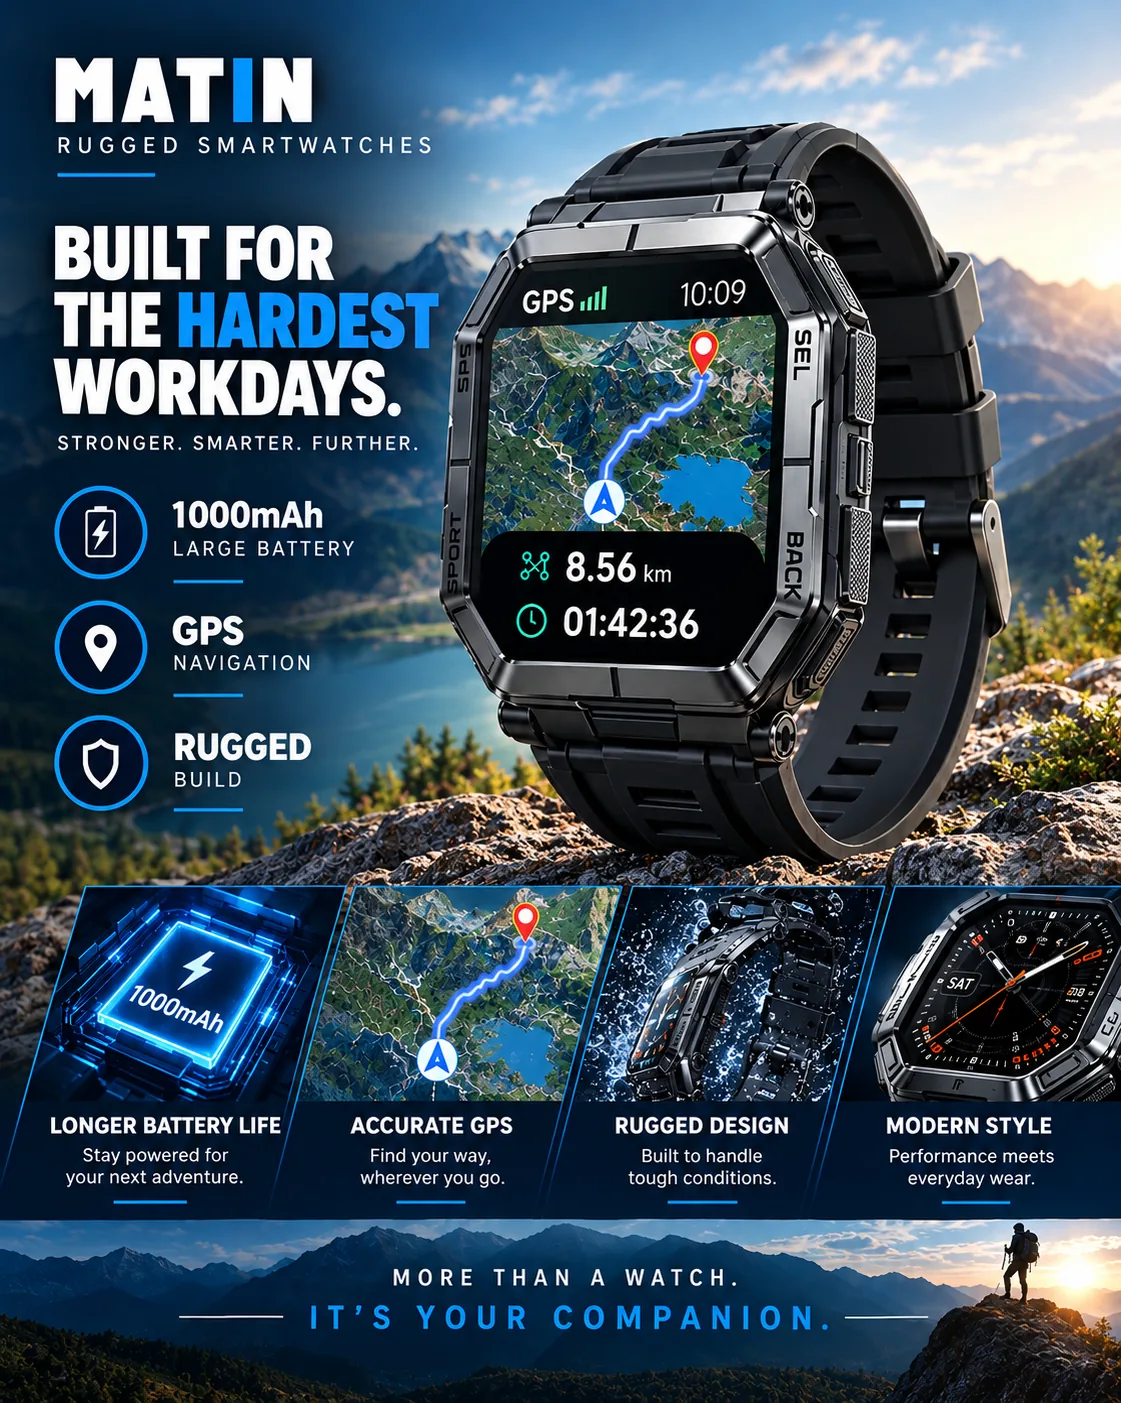
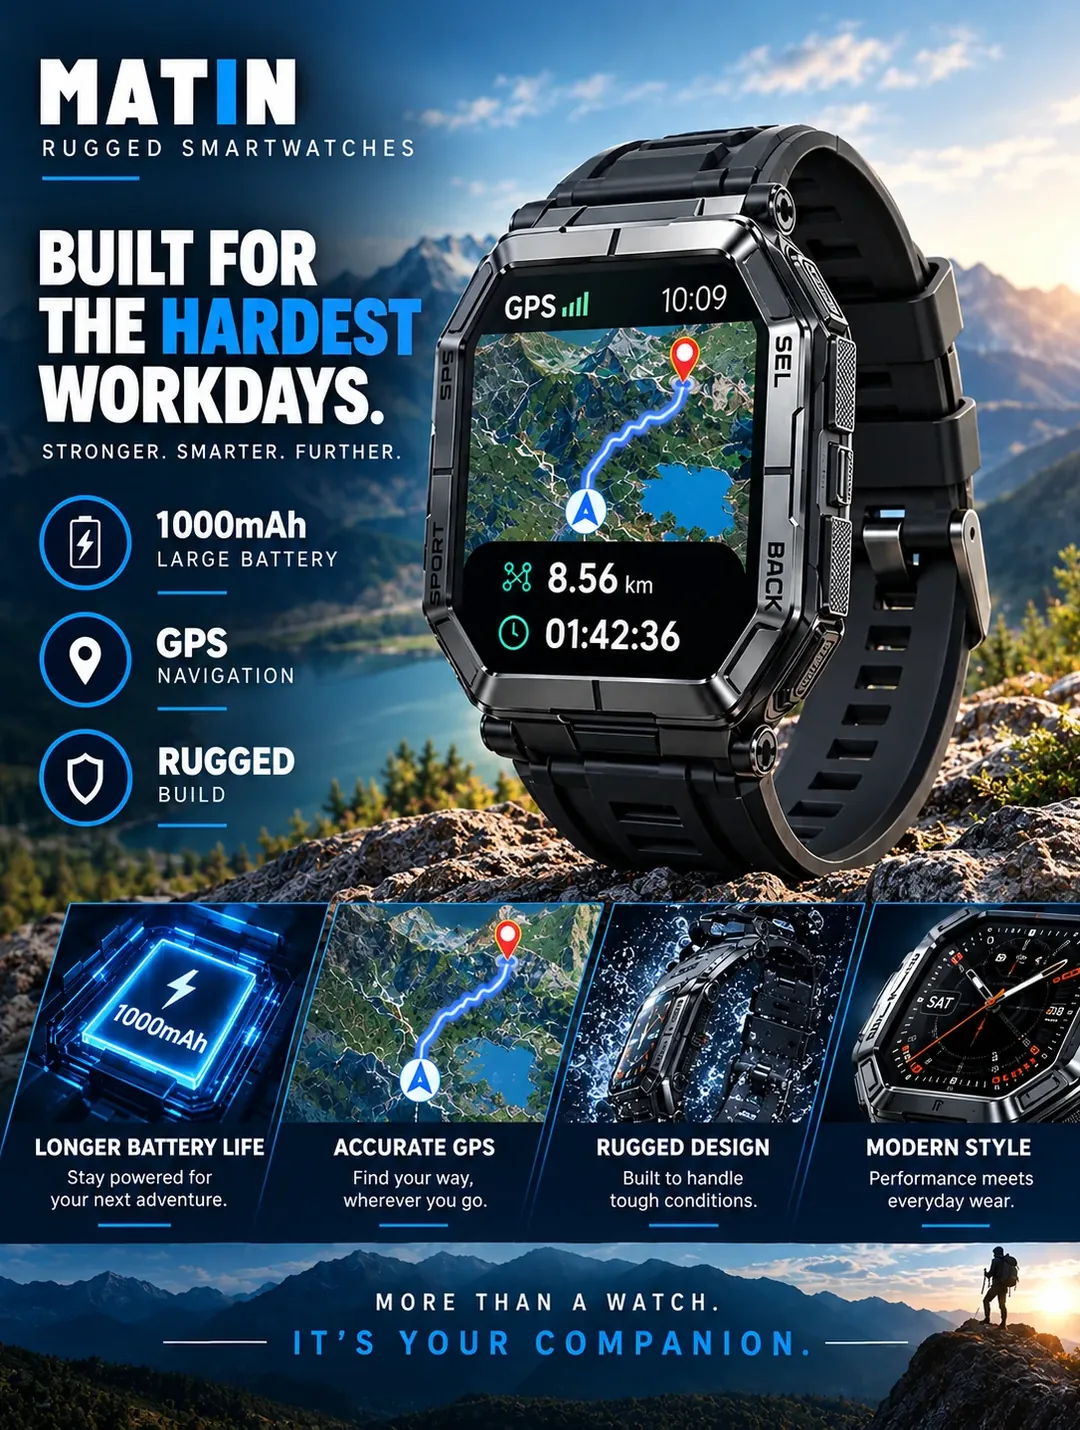
Highlights panel: start on GPS when reached, same-size pictures
Autoplay now waits until the panel is on screen, restarts from the first
tab each time you arrive and pauses when you scroll away (it used to run
from page load, so you could land mid-way). Both posters are trimmed to
the same 1080x1430 shape, and both texts share one spot so the panel
height never changes.

Claude-Session: https://claude.ai/code/session_0131Ey9WtYzRJWk6AUwA1R6u

diff --git a/components/Showcase.tsx b/components/Showcase.tsx
@@ -1,31 +1,49 @@
 "use client";
 
 import Image from "next/image";
-import { useEffect, useState } from "react";
+import { useEffect, useRef, useState } from "react";
 import type { Product } from "@/lib/products";
 
 const AUTOPLAY_MS = 6000;
 
 // One compact panel: tabs on the left switch the story and the picture on the
 // right. Pictures keep their real shape (no crop). It moves on by itself
-// every few seconds until someone picks a tab.
+// every few seconds while it is on screen (always starting from the first tab
+// when you arrive), until someone picks a tab.
 export default function Showcase({ product }: { product: Product }) {
   const chapters = product.chapters ?? [];
   const [active, setActive] = useState(0);
   const [auto, setAuto] = useState(true);
+  const [inView, setInView] = useState(false);
+  const ref = useRef<HTMLDivElement>(null);
+
+  // Only run while at least half the panel is visible; restart from the
+  // first tab each time it comes back into view.
+  useEffect(() => {
+    const el = ref.current;
+    if (!el) return;
+    const io = new IntersectionObserver(
+      ([entry]) => {
+        setInView(entry.isIntersecting);
+        if (entry.isIntersecting) setActive((a) => (auto ? 0 : a));
+      },
+      { threshold: 0.5 },
+    );
+    io.observe(el);
+    return () => io.disconnect();
+  }, [auto]);
 
   useEffect(() => {
-    if (!auto || chapters.length < 2) return;
+    if (!auto || !inView || chapters.length < 2) return;
     if (matchMedia("(prefers-reduced-motion: reduce)").matches) return;
     const id = setTimeout(() => setActive((a) => (a + 1) % chapters.length), AUTOPLAY_MS);
     return () => clearTimeout(id);
-  }, [active, auto, chapters.length]);
+  }, [active, auto, inView, chapters.length]);
 
   if (chapters.length === 0) return null;
-  const c = chapters[active];
 
   return (
-    <div className={`showcase-panel${auto ? " is-auto" : ""}`}>
+    <div ref={ref} className={`showcase-panel${auto && inView ? " is-auto" : ""}`}>
       <div className="showcase-copy">
         <div className="showcase-tabs" role="tablist" aria-label="Highlights">
           {chapters.map((ch, i) => (
@@ -44,13 +62,25 @@ export default function Showcase({ product }: { product: Product }) {
             >
               {ch.eyebrow}
               {/* Keyed so the bar restarts each time this tab becomes active */}
-              {i === active && <span key={active} className="showcase-progress" aria-hidden="true" />}
+              {i === active && <span key={`${active}-${inView}`} className="showcase-progress" aria-hidden="true" />}
             </button>
           ))}
         </div>
-        <div id="showcase-body" role="tabpanel" aria-labelledby={`showcase-tab-${active}`} key={active} className="showcase-body">
-          <h3>{c.title}</h3>
-          <p>{c.text}</p>
+        {/* All texts share one spot so the panel keeps the height of the longest */}
+        <div className="showcase-bodies">
+          {chapters.map((ch, i) => (
+            <div
+              key={ch.title}
+              id={i === active ? "showcase-body" : undefined}
+              role={i === active ? "tabpanel" : undefined}
+              aria-labelledby={i === active ? `showcase-tab-${i}` : undefined}
+              aria-hidden={i === active ? undefined : true}
+              className={`showcase-body${i === active ? " on" : ""}`}
+            >
+              <h3>{ch.title}</h3>
+              <p>{ch.text}</p>
+            </div>
+          ))}
         </div>
       </div>
       <div className="showcase-pics">

diff --git a/lib/products.ts b/lib/products.ts
@@ -177,14 +177,14 @@ export const products: Product[] = [
       {
         src: "/products/matin-trekon-gps-rugged-smartwatch-outdoors.webp",
         alt: "MATIN Trekon rugged GPS smartwatch on a mountain rock showing route tracking, 1000mAh battery and rugged build",
-        width: 1121,
-        height: 1403,
+        width: 1080,
+        height: 1430,
       },
       {
         src: "/products/matin-trekon-170-sport-modes.webp",
         alt: "MATIN Trekon GPS sports watch with 170+ sport modes for hiking, running, cycling, climbing, tennis, basketball and yoga",
-        width: 1200,
-        height: 1693,
+        width: 1080,
+        height: 1430,
       },
     ],
     faq: [

diff --git a/app/globals.css b/app/globals.css
@@ -2024,7 +2024,17 @@ h3 {
   }
 }
 
+.showcase-bodies {
+  display: grid;
+}
+
 .showcase-body {
+  grid-area: 1 / 1;
+  visibility: hidden;
+}
+
+.showcase-body.on {
+  visibility: visible;
   animation: showcase-in 0.6s cubic-bezier(0.2, 0.7, 0.2, 1);
 }
 
@@ -2095,7 +2105,7 @@ h3 {
 }
 
 @media (prefers-reduced-motion: reduce) {
-  .showcase-body {
+  .showcase-body.on {
     animation: none;
   }
   .showcase-pics img {
